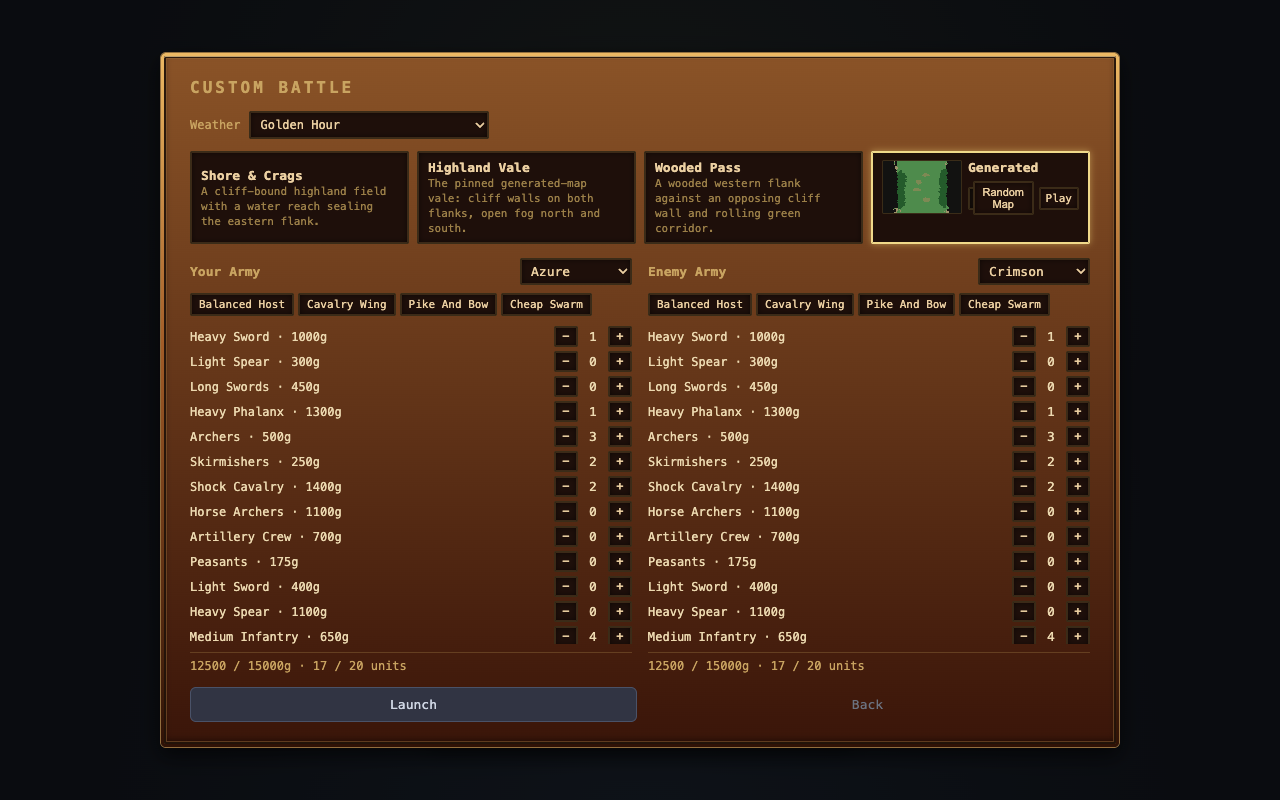
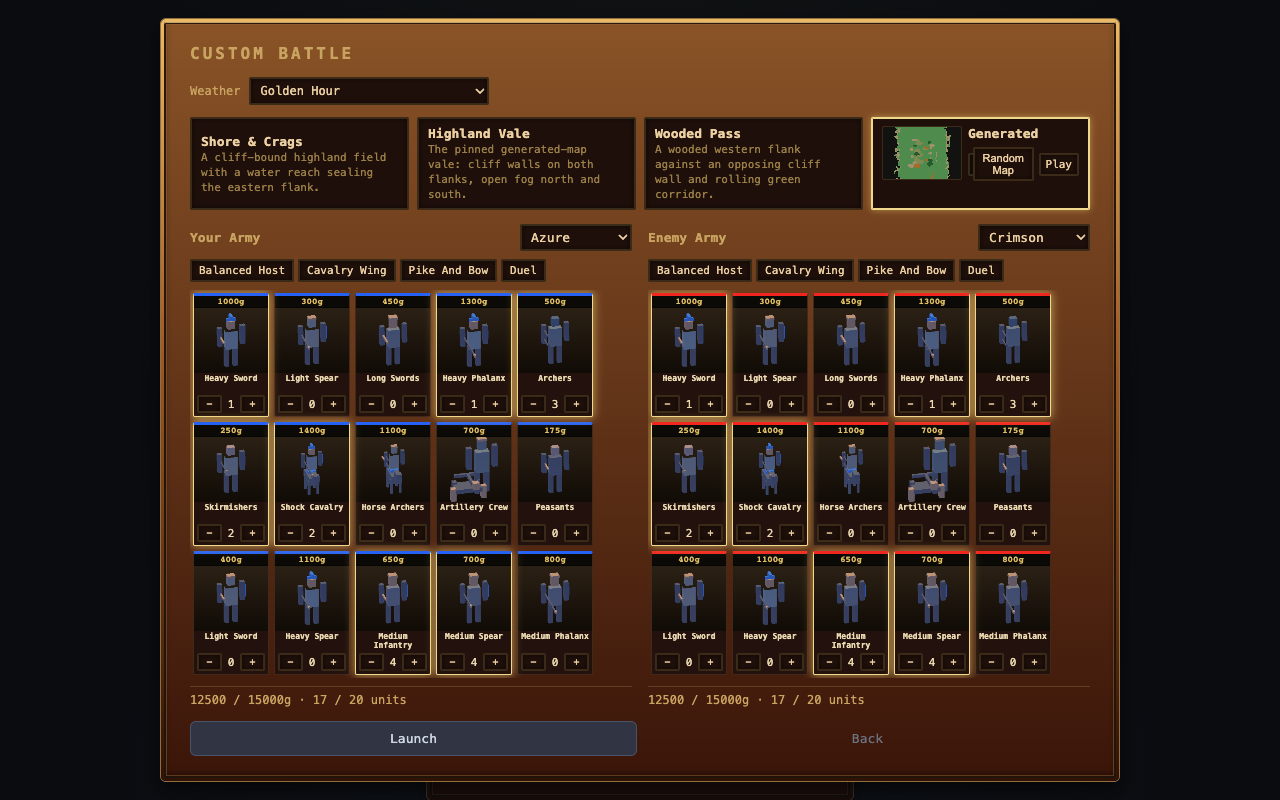
army builder: real unit cards replace the class rows, Cheap Swarm dropped
Each class is now the battle card chassis - baked portrait, cost strip,
name, faction top rim - with a -/+ stepper strip; picked classes carry the
gold glow but keep their faction stripe. Five cards per row so all 15
classes read as three full rows with no name ellipses.

diff --git a/web/src/ui/menu/ArmyBuilder.tsx b/web/src/ui/menu/ArmyBuilder.tsx
@@ -1,8 +1,10 @@
-import { useEffect, useReducer, useRef } from "react";
+import { useEffect, useReducer, useRef, type CSSProperties } from "react";
 import {
   BATTLE_FACTIONS,
+  factionPrimaryCss,
   type BattleFactionId,
 } from "../../../../packages/game-renderer/src/battle/factionColors";
+import { Portrait } from "../hud/UnitCardsView";
 import {
   BATTLE_ENVIRONMENT_OPTIONS,
   DEFAULT_BATTLE_ENVIRONMENT,
@@ -337,6 +339,8 @@ function ArmyPanel(props: {
   dispatch: (a: import("./armyBuilderState").ArmyBuilderAction) => void;
 }) {
   const { team, classes, army, factionId, validation: v, dispatch } = props;
+  const faction = BATTLE_FACTIONS.find((f) => f.id === factionId) ?? BATTLE_FACTIONS[team];
+  const factionCss = factionPrimaryCss(faction);
   const footerCls =
     "qb-footer" + (v.overBudget || v.overSlots ? " over" : "") + (v.empty ? " empty" : "");
   const title = team === 0 ? "Your Army" : "Enemy Army";
@@ -382,27 +386,45 @@ function ArmyPanel(props: {
           </button>
         ))}
       </div>
-      <div className="qb-rows">
-        {classes.map((c) => (
-          <div className="qb-row" key={c.id}>
-            <span className="qb-label">
-              {c.name} · {c.cost}g
-            </span>
-            <button
-              className="qb-step"
-              onClick={() => dispatch({ kind: "count", team, classId: c.id, delta: -1 })}
-            >
-              −
-            </button>
-            <span className="qb-count">{army.get(c.id) ?? 0}</span>
-            <button
-              className="qb-step"
+      <div className="qb-cards">
+        {classes.map((c) => {
+          const count = army.get(c.id) ?? 0;
+          return (
+            <div
+              className={"ucard qb-card" + (count > 0 ? " sel" : "")}
+              key={c.id}
+              style={{ ["--fac"]: factionCss } as CSSProperties}
               onClick={() => dispatch({ kind: "count", team, classId: c.id, delta: 1 })}
             >
-              +
-            </button>
-          </div>
-        ))}
+              <div className="qb-card-cost">{c.cost}g</div>
+              <Portrait u={{ unit: -1, cls: c.id, team, name: c.name }} />
+              <div className="ucard-name">{c.name}</div>
+              <div className="qb-card-steps">
+                <button
+                  className="qb-step"
+                  aria-label={`Remove ${c.name}`}
+                  onClick={(e) => {
+                    e.stopPropagation();
+                    dispatch({ kind: "count", team, classId: c.id, delta: -1 });
+                  }}
+                >
+                  −
+                </button>
+                <span className="qb-count">{count}</span>
+                <button
+                  className="qb-step"
+                  aria-label={`Add ${c.name}`}
+                  onClick={(e) => {
+                    e.stopPropagation();
+                    dispatch({ kind: "count", team, classId: c.id, delta: 1 });
+                  }}
+                >
+                  +
+                </button>
+              </div>
+            </div>
+          );
+        })}
       </div>
       <div className={footerCls}>
         {v.goldSpent} / {QUICK_BATTLE_GOLD}g · {v.slotsUsed} / {QUICK_BATTLE_MAX_UNITS} units

diff --git a/web/index.html b/web/index.html
@@ -1030,19 +1030,65 @@
         font-size: 11px;
         box-shadow: var(--well-shadow);
       }
-      .qb-rows {
-        max-height: 40vh;
+      /* Recruitment cards: the battle unit-card chassis (.ucard well, faction top
+       rim, baked portrait, name strip) with a cost strip above the portrait and a
+       −/+ stepper strip below the name. Count > 0 borrows the .sel gold glow. */
+      .qb-cards {
+        --card-w: 76px;
+        --card-h: 124px;
+        display: flex;
+        flex-wrap: wrap;
+        gap: 5px;
+        max-height: 50vh;
         overflow: auto;
+        padding: 3px;
       }
-      .qb-row {
-        display: grid;
-        grid-template-columns: 1fr auto auto auto;
-        gap: 6px;
+      .qb-card {
+        flex: none;
+      }
+      /* A picked card keeps its faction rim: .sel's gold would otherwise repaint
+       the top stripe and read as a third, accidental card state. */
+      .qb-card.sel {
+        border-top-color: var(--fac);
+      }
+      /* Class names must be readable in a picker: wrap to two lines instead of
+       the battle bar's single-line ellipsis. */
+      .qb-card .ucard-name {
+        white-space: normal;
+        line-height: 1.2;
+        height: 2.4em;
+        overflow: hidden;
+      }
+      .qb-card-cost {
+        flex: none;
+        height: 12px;
+        line-height: 12px;
+        text-align: center;
+        background: rgba(6, 8, 5, 0.82);
+        box-shadow: inset 0 -1px 0 rgba(0, 0, 0, 0.5);
+        font:
+          700 9px ui-monospace,
+          monospace;
+        color: #e0bd63;
+      }
+      .qb-card-steps {
+        flex: none;
+        display: flex;
         align-items: center;
-        padding: 2px 0;
+        gap: 2px;
+        padding: 2px 3px 3px;
       }
-      .qb-label {
-        font-size: 12px;
+      .qb-card-steps .qb-step {
+        flex: 1 1 0;
+        width: auto;
+        padding: 1px 0;
+        font-size: 11px;
+        line-height: 14px;
+      }
+      .qb-card-steps .qb-count {
+        flex: none;
+        min-width: 14px;
+        font-size: 11px;
       }
       .qb-step {
         width: 24px;

diff --git a/web/src/ui/hud/UnitCardsView.tsx b/web/src/ui/hud/UnitCardsView.tsx
@@ -57,8 +57,9 @@ export interface UnitCardsViewProps {
 }
 
 /** Baked-model portrait <img>, falling back to the flat canvas drawing if the
- * look is unbaked or the PNG fails — same contract as the vanilla portrait(). */
-function Portrait({ u }: { u: UnitCardInit }) {
+ * look is unbaked or the PNG fails — same contract as the vanilla portrait().
+ * Shared with the custom-battle army builder's recruitment cards. */
+export function Portrait({ u }: { u: UnitCardInit }) {
   const look = u.look ?? modelLookForClass(u.cls);
   const url = cardThumbUrl(look);
   const [failed, setFailed] = useState(false);

diff --git a/web/src/battle/quickBattleCatalog.ts b/web/src/battle/quickBattleCatalog.ts
@@ -123,17 +123,6 @@ export const QUICK_BATTLE_TEMPLATES: readonly QuickBattleArmyTemplate[] = [
     ],
   },
   {
-    id: "cheap-swarm",
-    name: "Cheap Swarm",
-    units: [
-      { classId: 9, count: 8 },
-      { classId: 10, count: 6 },
-      { classId: 5, count: 3 },
-      { classId: 12, count: 2 },
-      { classId: 0, count: 1 },
-    ],
-  },
-  {
     id: "duel",
     name: "Duel",
     units: [{ classId: 0, count: 1 }],
